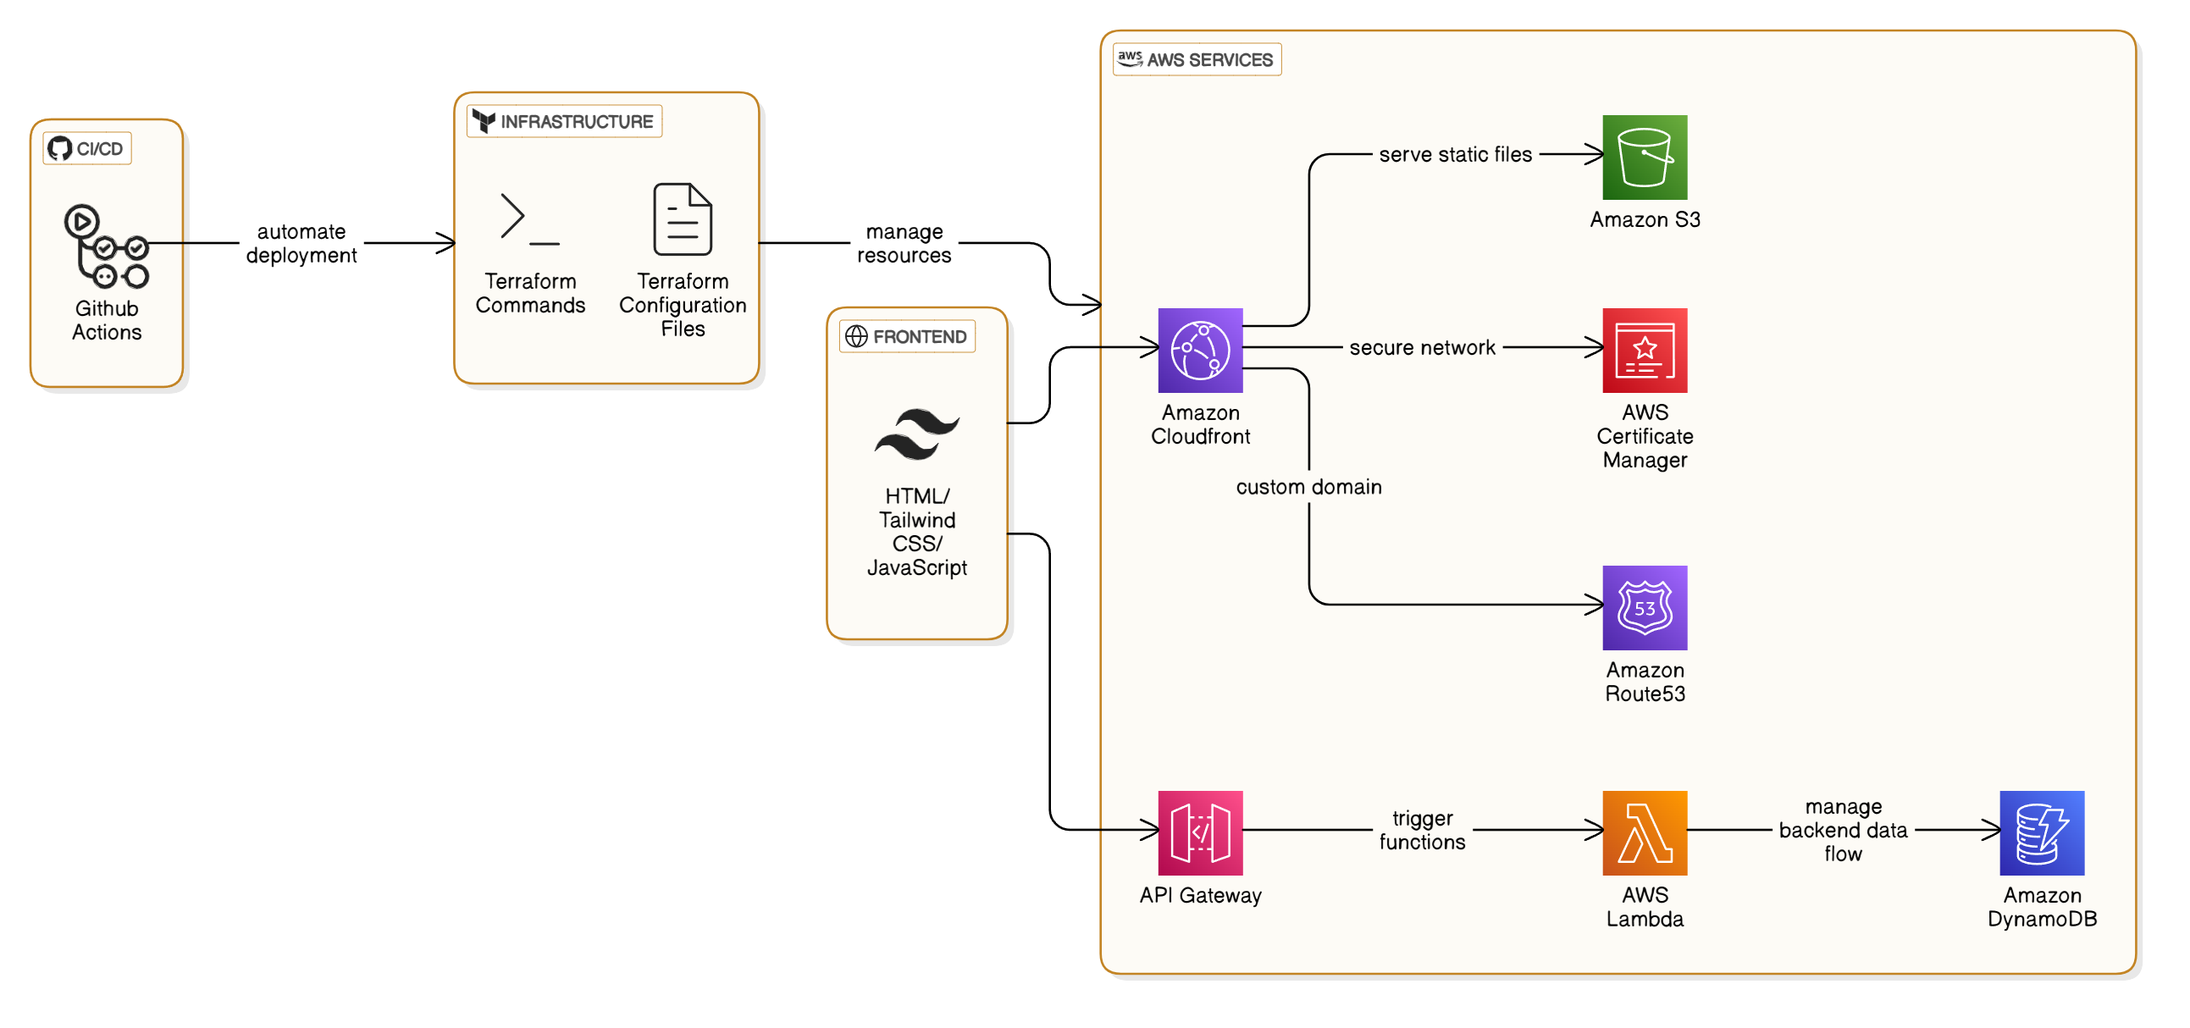
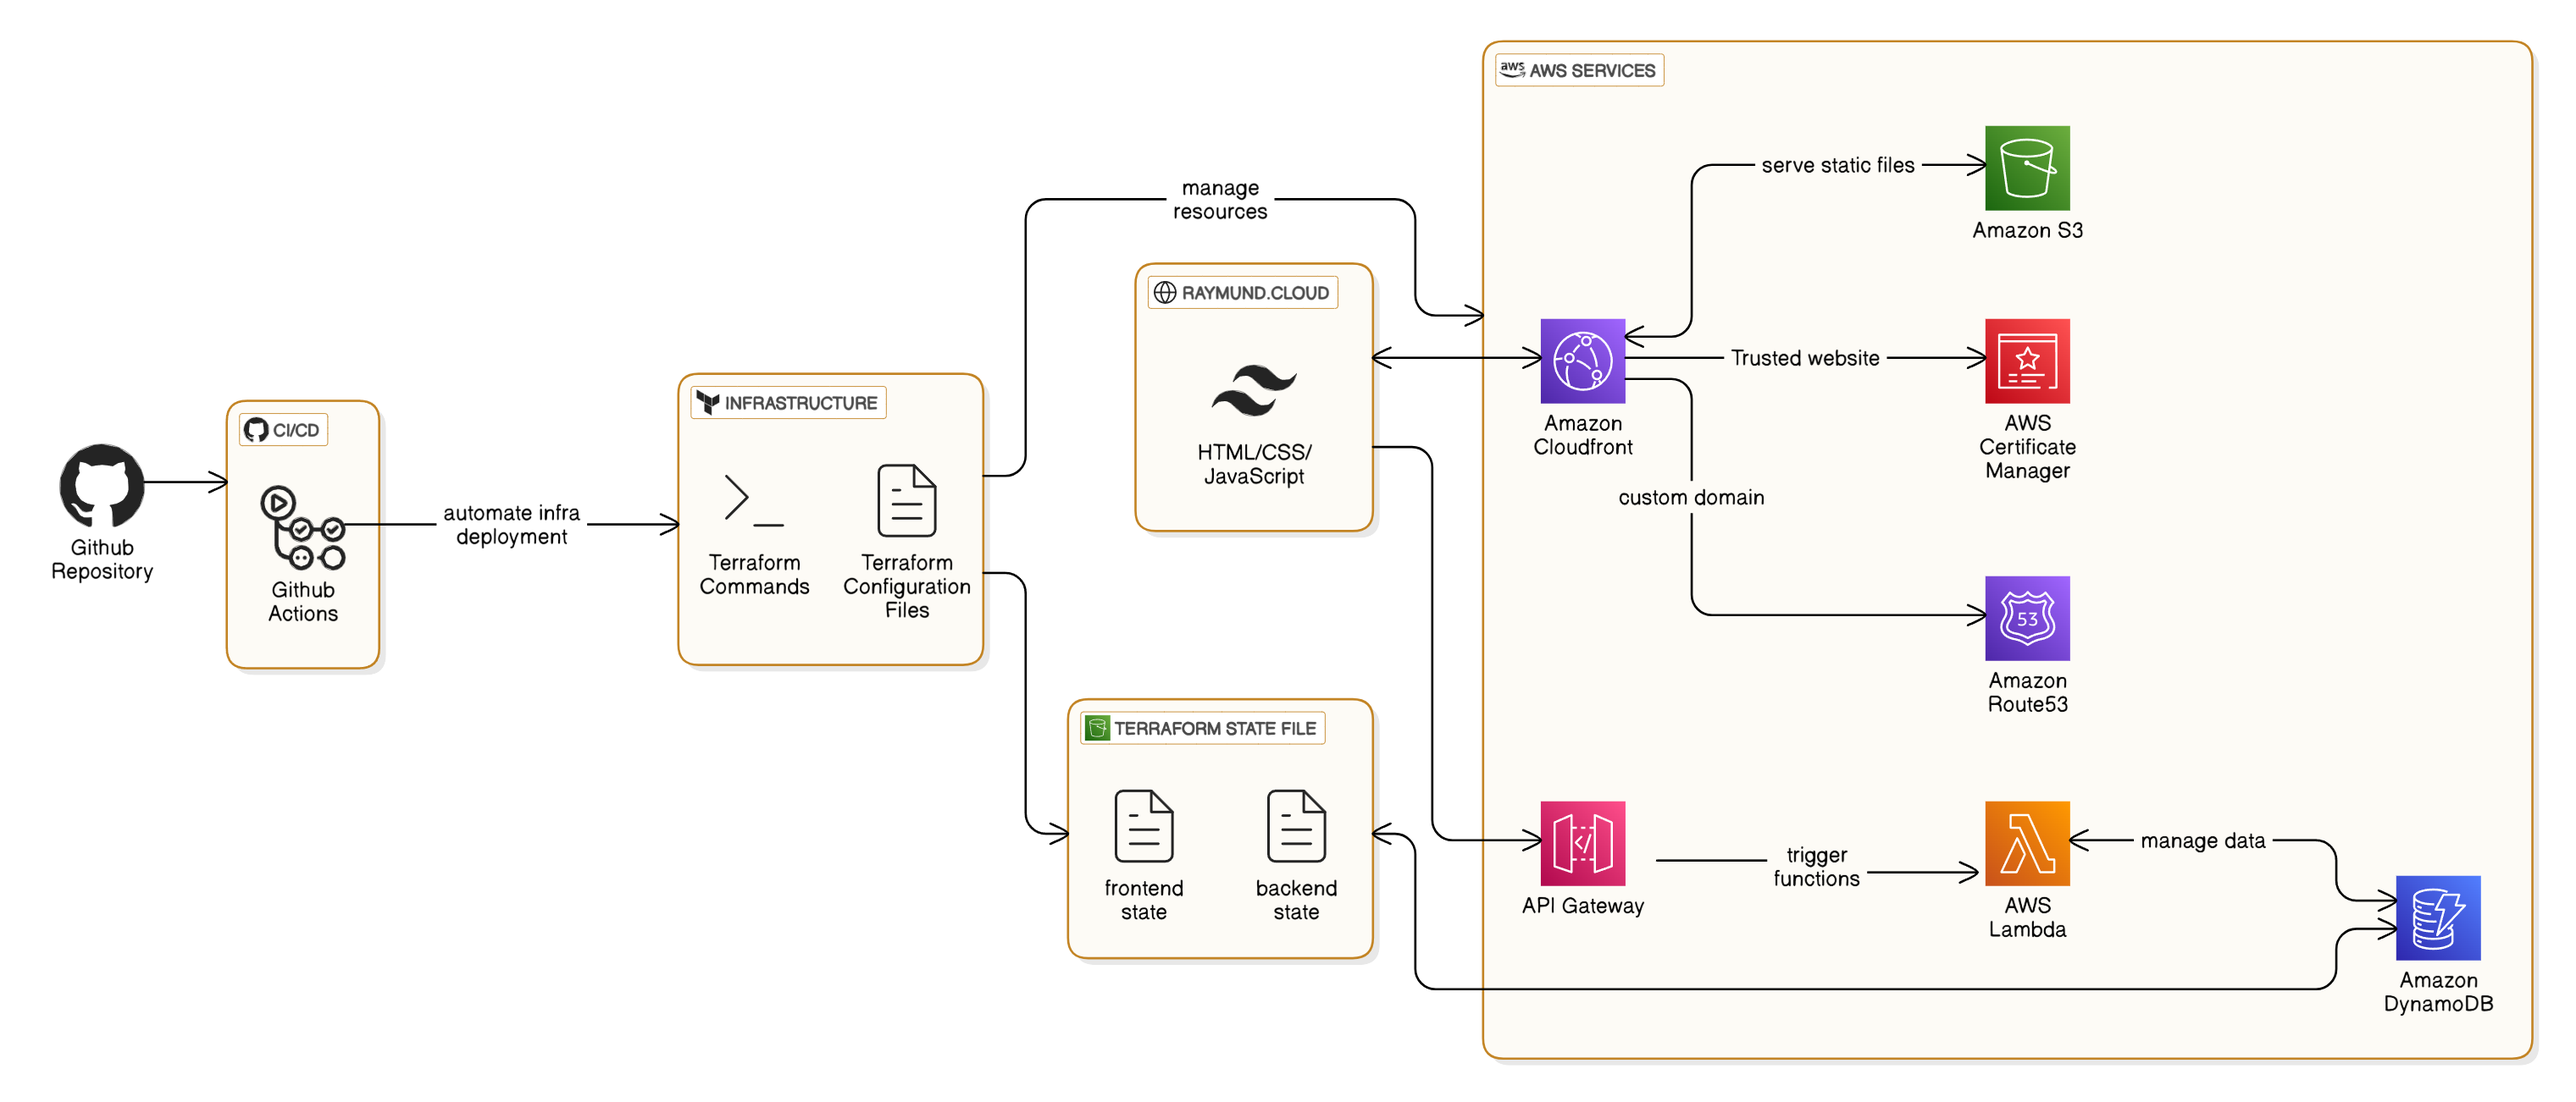
Release/frontend (#28)
* including updated diagram and content

* Enable s3 versioning
include local vars for s3 website endpoint

diff --git a/frontend/src/content/post/aws-crc.md b/frontend/src/content/post/aws-crc.md
@@ -1,0 +1,9 @@
+---
+layout: ../../layouts/post.astro
+title: 🚀The AWS Cloud Resume Challenge☁
+description: The Cloud Resume Challenge, created by Forrest Brazeal, is an inspiring project that encourages individuals to build a resume website on AWS, utilizing various services and best practices, providing a hands-on opportunity to showcase cloud skills.
+dateFormatted: Dec 5th, 2024
+---
+
+![Architecture](../../../public/assets/images/projects/aws_crc_architecture_diagram.png)
+
